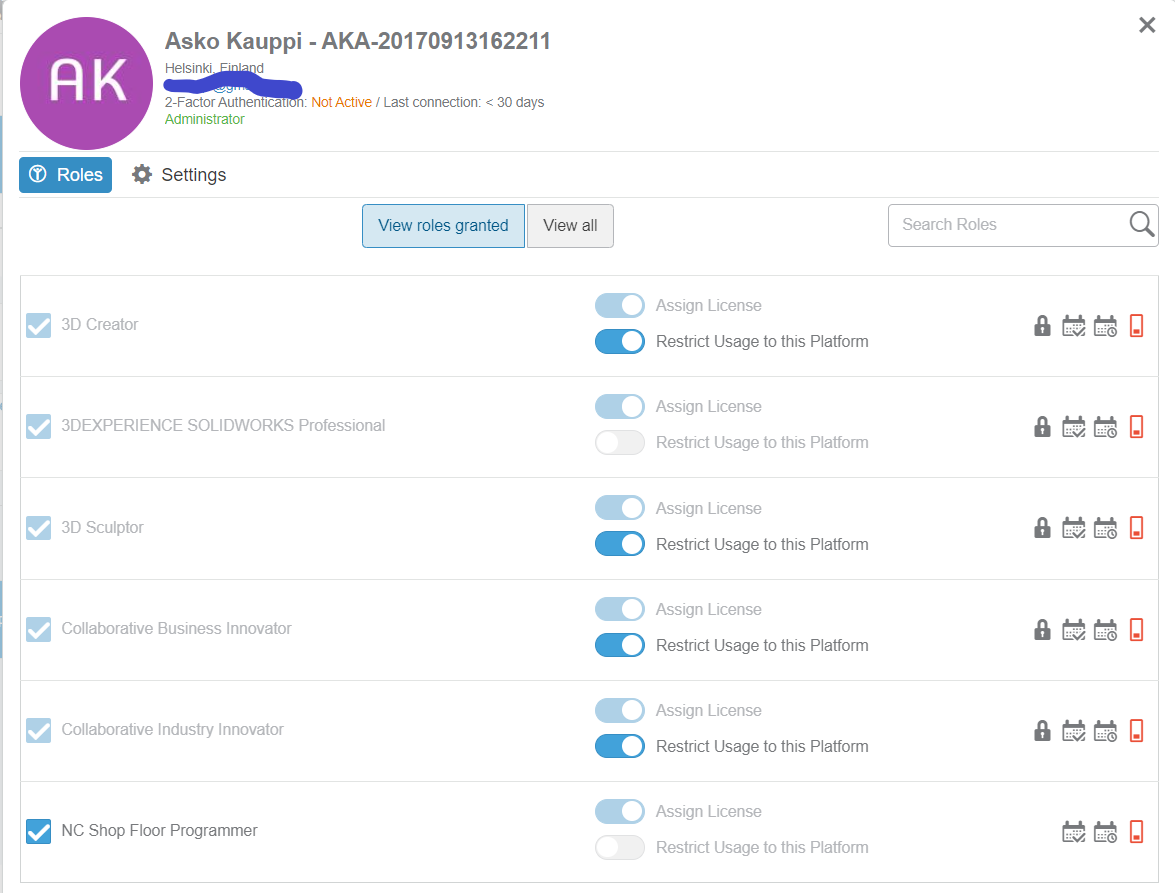
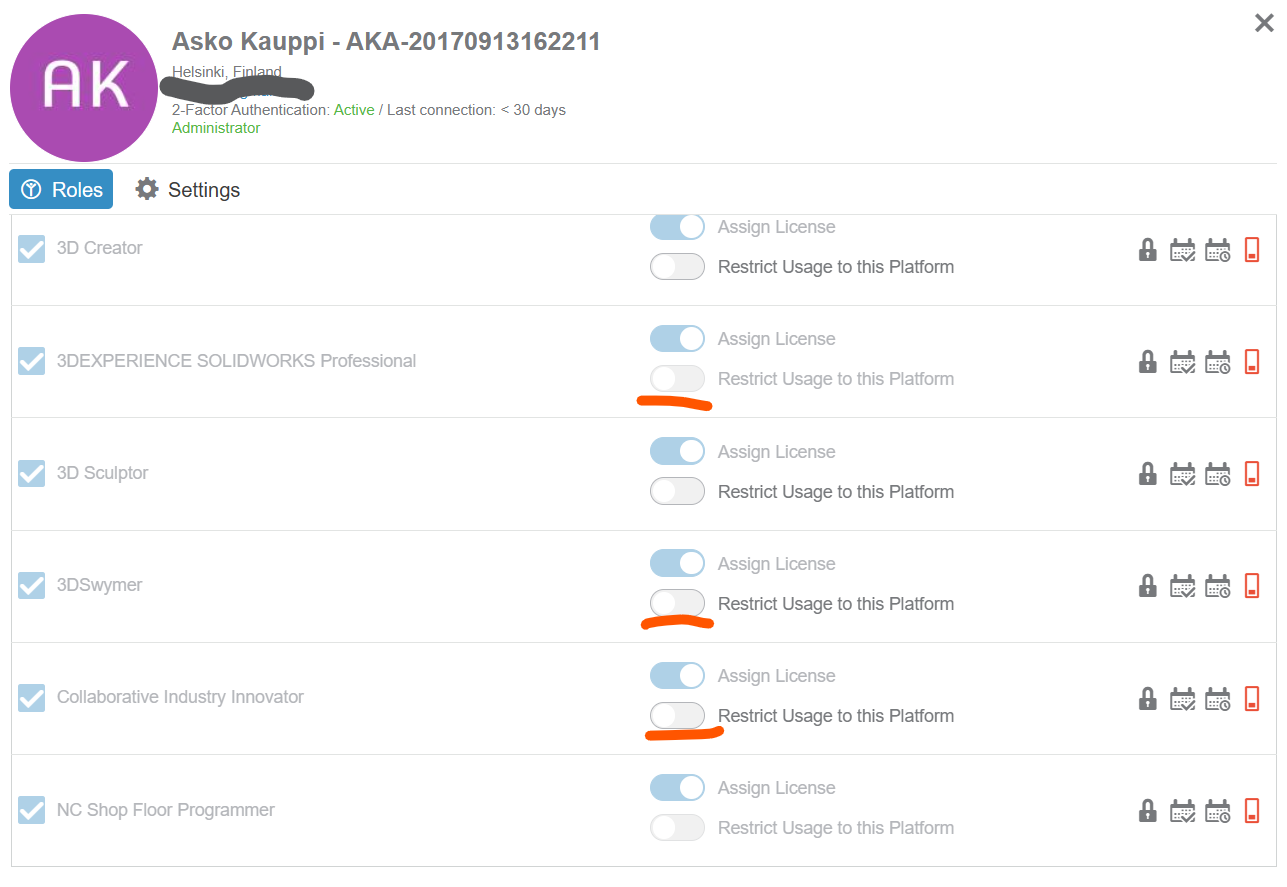
tidbits on collab and versioning

diff --git a/Collab/README.md b/Collab/README.md
@@ -131,21 +131,6 @@ Pressing the link leads to 3DExperience login page, or registration if the perso
 
 The receiver of the invite **also** needs to prepare their 3DExperience settings, to allow *their* license to be used in the collaboration:
 
-<!-- Old info?  Not finding the screenshot's view, any more.
-
-![](.images/invitee-user-settings.png)
-
-Notice `3DEXPERIENCE SOLIDWORKS Professional` having `Restrict Usage to this Platform` off.
-
-*tbd. What is the default for Solidworks for Makers users/admins? Do they need to do this?*
-
-*tbd. Is the `3DEXPERIENCE SOLIDWORKS Professional` role enough, or is unrestricting needed also for some other roles? `3DSwymer`, `Collaborative Industry Innovator`?*
--->
-
-<!--
-*tbd. Dassault wiki page states that switching on `Configure Member Options` > `Inivitations from administrators` is needed, for being able to unrestrict the roles. Is this true?*
--->
-
 - Visit `Members Control Center` > `Members` > `Configure Members Options` <sub>icon with a person and a gear</sub>
 
    - Enable `Invitations from administrators` 
@@ -153,6 +138,16 @@ Notice `3DEXPERIENCE SOLIDWORKS Professional` having `Restrict Usage to this Pla
       ![](.images/wiki-enable-invitations.jpg)
 
 >Note: We could check whether this step really is necessary. Dassault instructions from 2019 (and an online comment from 2023) say it is.
+
+- On one's own user id, click the `(i)` (info) icon.
+
+   This shows up:
+
+   ![](.images/invitee-user-settings.png)
+
+   >Notice `3DEXPERIENCE SOLIDWORKS Professional` having `Restrict Usage to this Platform` off.
+
+   **Likely**, you will need to lift the restrictions on `3DSwymer` and `Collaborative Industry Innovator` roles, too.
 
   
 ## Sharing Collaboration Spaces

diff --git a/FRs/Visual diff.md b/FRs/Visual diff.md
@@ -96,3 +96,7 @@ Complement it with a `Peek from Server` that would show changes if I were to pul
 
 - [Running the Compare Utility](https://help.solidworks.com/2023/english/swconnected/swutilities/t_running_the_compare_utility.htm) (SW Connected docs) <sub>`[1]`</sub>
 
+<!-- #whisper
+
+Person called @Joy Garon works for Dassault - and could know about this. see -> https://r1132100503382-eu1-3dswym.3dexperience.3ds.com/#community:kKnaKWHGTPC4ut-q1X_9uA/iquestion:RGtPxdgcSRyR5qeyRusSuQ/answer:swym%3Aprd%3AR1132100503382%3Aqnaanswer%3AMFvfi68gS3mt0R0EpRU3_g/comment:swym%3Aprd%3AR1132100503382%3Aqnaanswer%3AMFvfi68gS3mt0R0EpRU3_g%3Acomment%3AuX6-z5E2R2yljN8n5ppgeQ
+-->

diff --git a/README.md b/README.md
@@ -246,8 +246,6 @@ An update behaves like a full fledged reinstall. Reserve some time.
 
 ### Setting up McMaster-Carr
 
->NOTE!! As of Dec 2022, the McMaster Carr plugin **will not work with R2023x** Solidworks. See `TRACK.md` for details.
-
 Fusion 360 relies heavily on McMaster Carr catalog of off-the-shelf parts. SolidWorks integrates PartSupply instead (open assembly, then `Insert from PartSupply`), but its filtering options etc. did not convince the author.
 
 Luckily, you can install McMaster Carr integration also on SolidWorks. 👏

diff --git a/Collab/TRACK.md b/Collab/TRACK.md
@@ -1,0 +1,9 @@
+# Collab > Track
+
+## Discussion on versioning
+
+[Thread of versioning](https://r1132100503382-eu1-3dswym.3dexperience.3ds.com/#community:kKnaKWHGTPC4ut-q1X_9uA/iquestion:RGtPxdgcSRyR5qeyRusSuQ/answer:swym%3Aprd%3AR1132100503382%3Aqnaanswer%3AVkaKJY4_RjCQ17ikiKJxAg/comment:swym%3Aprd%3AR1132100503382%3Aqnaanswer%3AVkaKJY4_RjCQ17ikiKJxAg%3Acomment%3Avb9EhYJPTF-TOvAWFyRm2Q) is kind of daunting, if correct.
+
+Follow it.
+
+![](.images/versioning-neglect.png)
